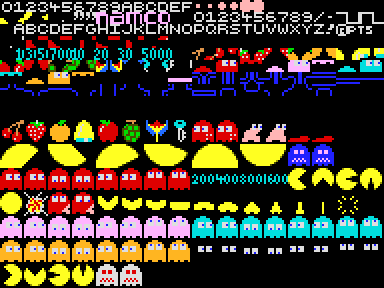
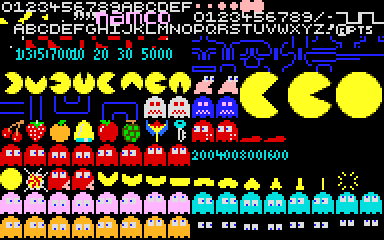
Sprite-maps gimped

diff --git a/examples/pacman/README.md b/examples/pacman/README.md
@@ -21,9 +21,10 @@ version.
 ### Sprites
 
 [sam_gfx.png](https://github.com/rm-hull/big-bang/blob/master/examples/pacman/data/sam_gfx.png)
-is a 384x288 sprite sheet comprising of 12x12 and 24x24 sprites. It was 
+is a 384x240 sprite sheet comprising of 12x12 and 24x24 sprites. It was 
 originally created by Simon Owen (derived from http://simonowen.com/sam/articles/pacemu/)
-but with the borders trimmed. Also, see an enlarged version with gridlines:
+but has been modified to remove some duplication, as well as having the borders trimmed. 
+Also, see an enlarged version with gridlines:
 
 ![gridlines](https://raw.github.com/rm-hull/big-bang/master/examples/pacman/gridlines.png)
 
